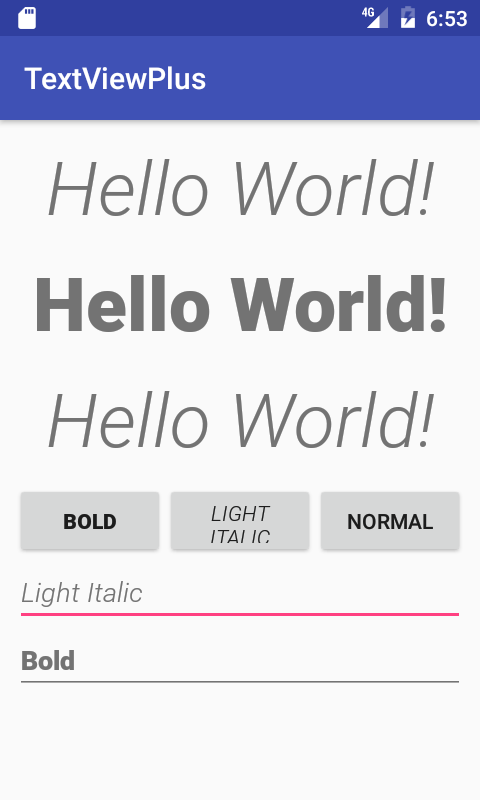
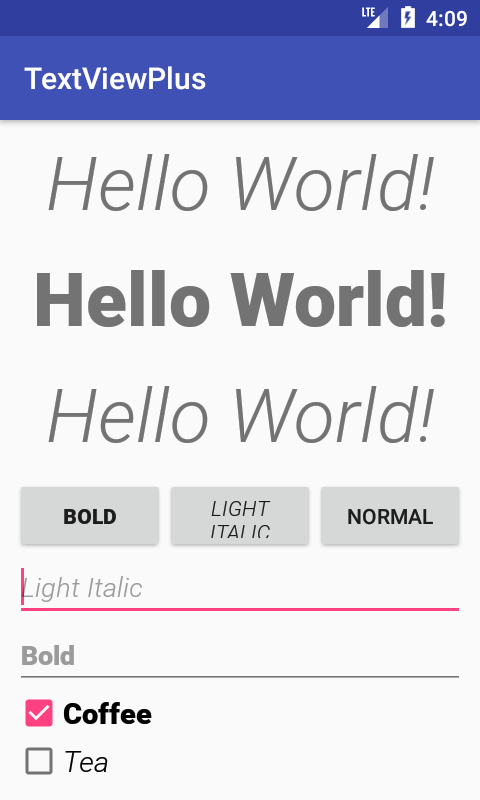
Added Plus CheckBox

diff --git a/textviewplus/src/main/java/phelat/CheckBox/Plus.java b/textviewplus/src/main/java/phelat/CheckBox/Plus.java
@@ -1,16 +1,16 @@
-package phelat.EditText;
+package phelat.CheckBox;
 
 import android.content.Context;
 import android.content.res.TypedArray;
 import android.graphics.Typeface;
-import android.support.v7.widget.AppCompatEditText;
+import android.support.v7.widget.AppCompatCheckBox;
 import android.util.AttributeSet;
 import android.util.Log;
 
 import phelat.TextView.R;
 import phelat.Utils.FontHelper;
 
-public class Plus extends AppCompatEditText {
+public class Plus extends AppCompatCheckBox {
 
     private static final String TAG = "TextViewPlus";
 

diff --git a/textviewplus/src/main/java/phelat/TextView/Plus.java b/textviewplus/src/main/java/phelat/TextView/Plus.java
@@ -13,10 +13,6 @@ public class Plus extends AppCompatTextView {
 
     private static final String TAG = "TextViewPlus";
 
-    private int mLineY;
-
-    private int mViewWidth;
-
     public Plus(Context context) {super(context);}
 
     public Plus(Context context, AttributeSet attrs) {

diff --git a/textviewplus/src/main/java/phelat/Button/Plus.java b/textviewplus/src/main/java/phelat/Button/Plus.java
@@ -14,10 +14,6 @@ public class Plus extends AppCompatButton {
 
     private static final String TAG = "TextViewPlus";
 
-    private int mLineY;
-
-    private int mViewWidth;
-
     public Plus(Context context) {super(context);}
 
     public Plus(Context context, AttributeSet attrs) {
